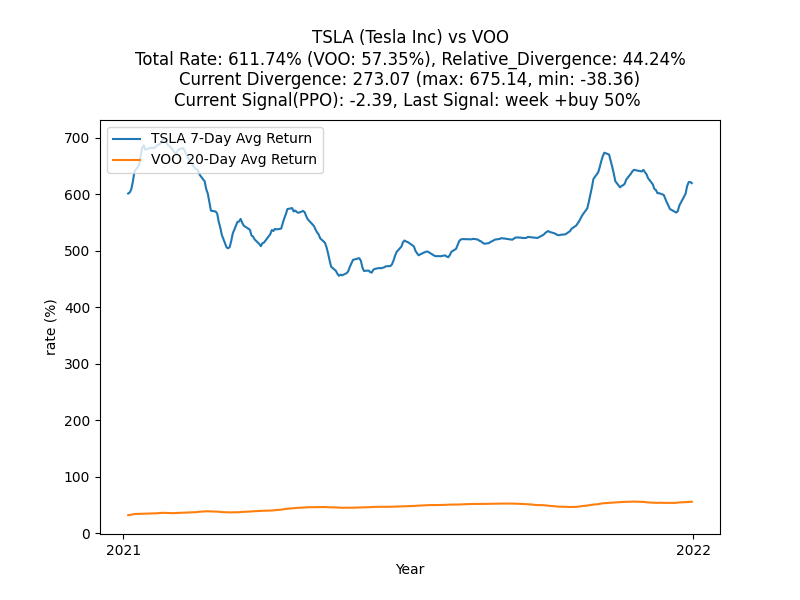
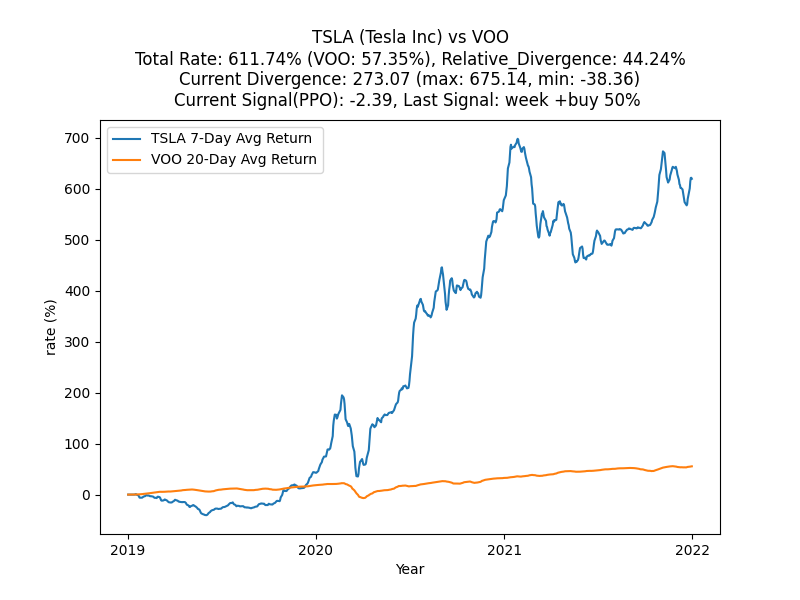
Auto-commit moved files

diff --git a/my-flask-app/Results_plot.py b/my-flask-app/Results_plot.py
@@ -141,7 +141,7 @@ if __name__ == "__main__":
     print(f"Plotting results for {ticker} from {start_date} to {end_date}")
 
     try:
-        asyncio.run(plot_comparison_results(ticker, '2021-01-01', '2021-12-31'))
+        asyncio.run(plot_comparison_results(ticker, '2019-01-01', '2021-12-31'))
         print("Plotting completed successfully.")
     except Exception as e:
         print(f"Error occurred while plotting results: {e}")
